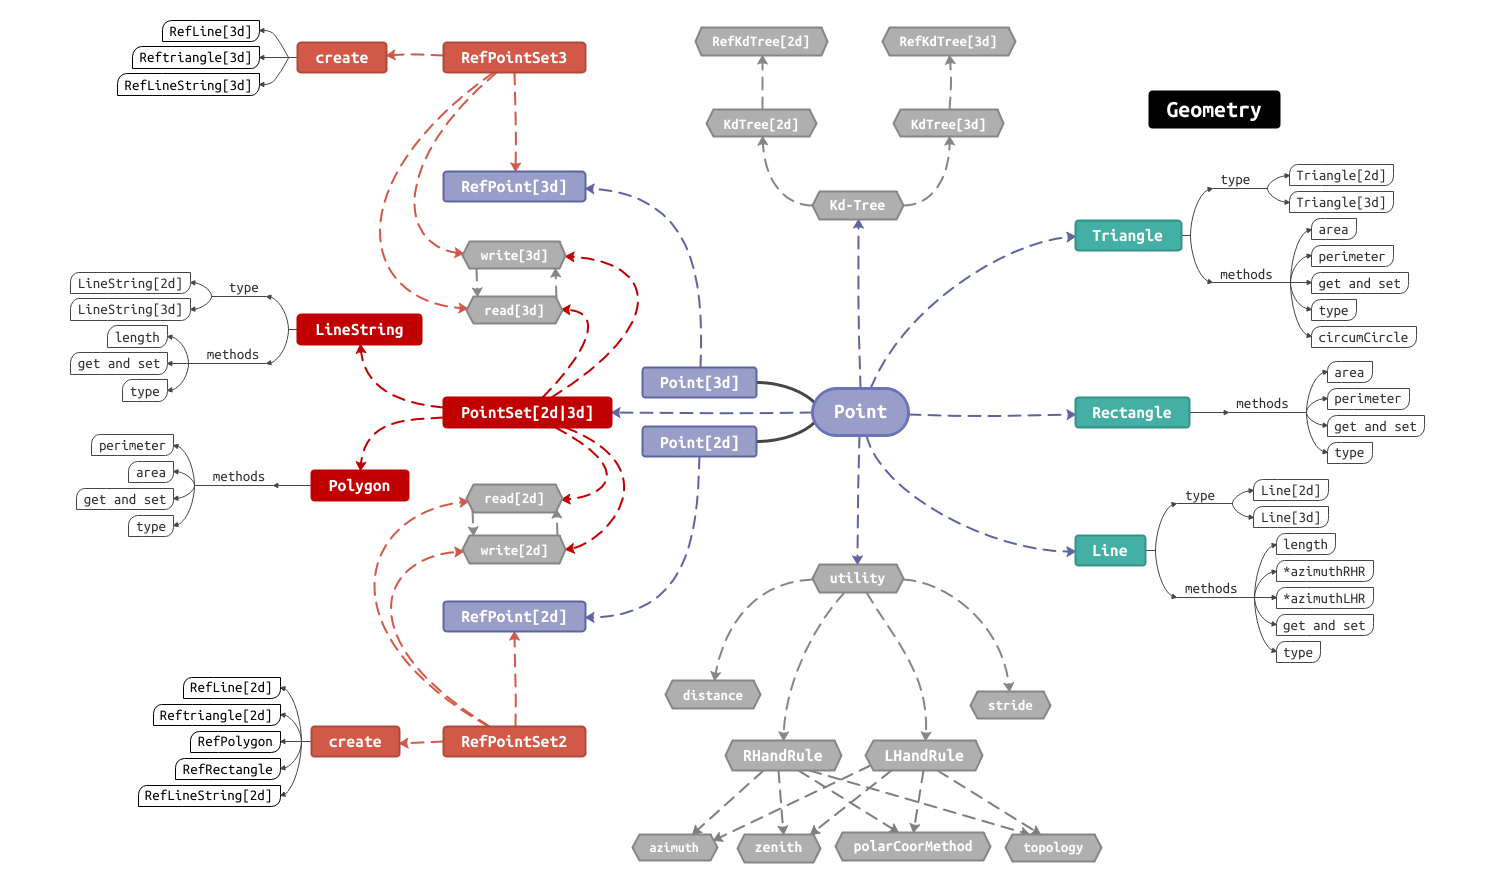
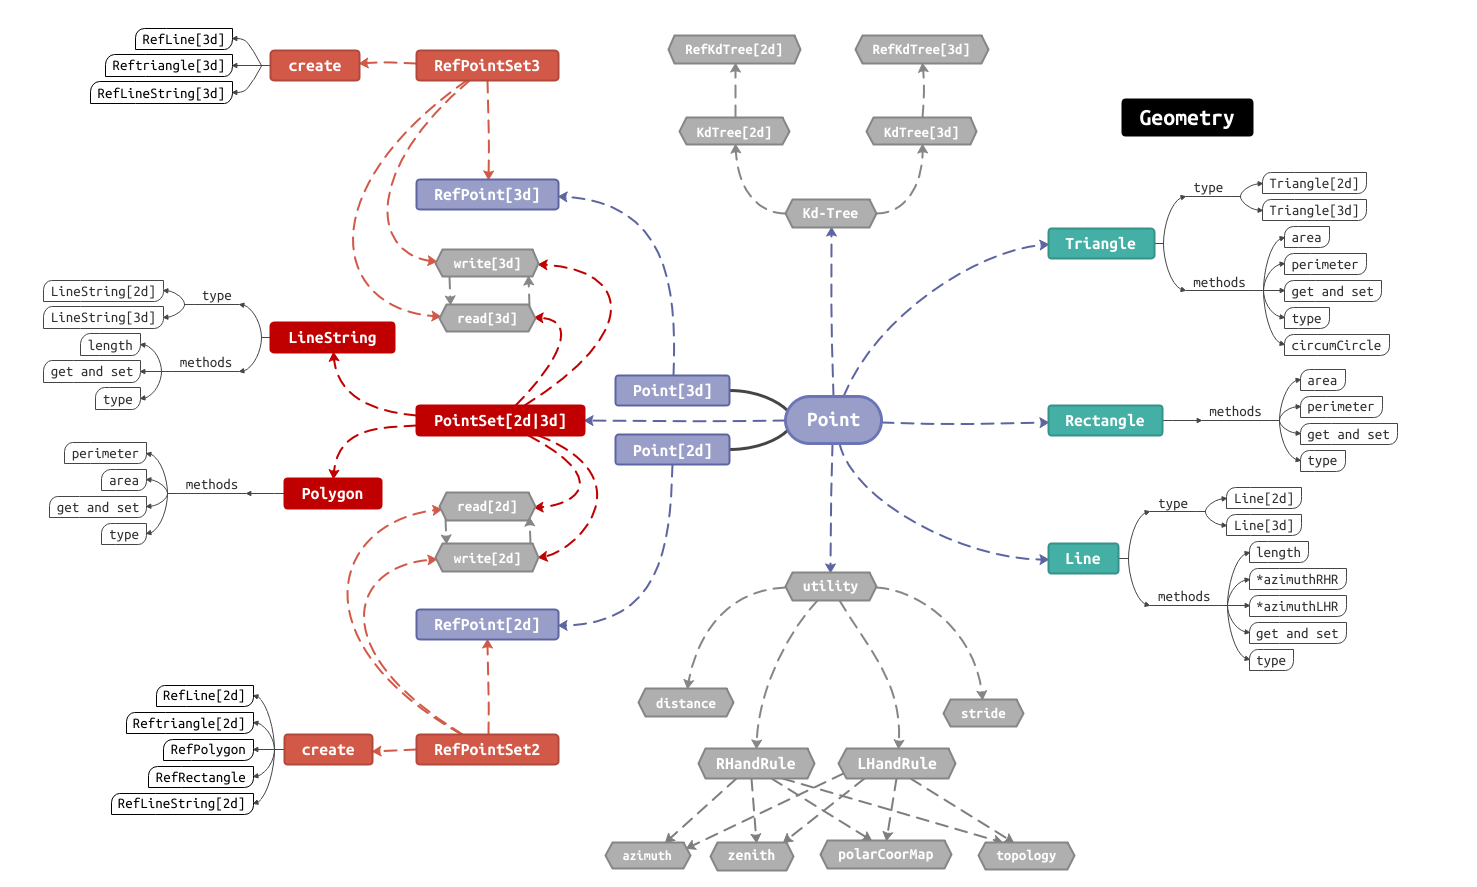
small change

diff --git a/include/utility.hpp b/include/utility.hpp
@@ -431,7 +431,7 @@ namespace ns_geo
          * @return Point2<_Ty> 
          */
         template <typename _Ty>
-        Point2<_Ty> polarCoorMethod(const Point2<_Ty> &center, float distance, float azimuth)
+        Point2<_Ty> polarCoorMap(const Point2<_Ty> &center, float distance, float azimuth)
         {
             Point2<_Ty> pos;
             pos.x() = center.x() + distance * std::sin(azimuth);
@@ -450,7 +450,7 @@ namespace ns_geo
          * @return Point3<_Ty> 
          */
         template <typename _Ty>
-        Point3<_Ty> polarCoorMethod(const Point3<_Ty> &center, float distance, float azimuth, float zenith)
+        Point3<_Ty> polarCoorMap(const Point3<_Ty> &center, float distance, float azimuth, float zenith)
         {
             Point3<_Ty> pos;
             float prjDis = distance * std::sin(zenith);
@@ -554,7 +554,7 @@ namespace ns_geo
          * @return Point2<_Ty> 
          */
         template <typename _Ty>
-        Point2<_Ty> polarCoorMethod(const Point2<_Ty> &center, float distance, float azimuth)
+        Point2<_Ty> polarCoorMap(const Point2<_Ty> &center, float distance, float azimuth)
         {
             Point2<_Ty> pos;
             pos.x() = center.x() + distance * std::cos(azimuth);
@@ -573,7 +573,7 @@ namespace ns_geo
          * @return Point3<_Ty> 
          */
         template <typename _Ty>
-        Point3<_Ty> polarCoorMethod(const Point3<_Ty> &center, float distance, float azimuth, float zenith)
+        Point3<_Ty> polarCoorMap(const Point3<_Ty> &center, float distance, float azimuth, float zenith)
         {
             Point3<_Ty> pos;
             float prjDis = distance * std::sin(zenith);

diff --git a/main.cpp b/main.cpp
@@ -18,7 +18,7 @@ void foo_polarCoor()
 {
     for (float rad = 0.0; rad < 10 * M_PI; rad += 0.5)
     {
-        auto pos = RHandRule::polarCoorMethod(Point2f(), rad * rad * rad / 100.0, rad);
+        auto pos = RHandRule::polarCoorMap(Point2f(), rad * rad * rad / 100.0, rad);
         std::cout << pos.x() << ',' << pos.y() << std::endl;
     }
     return;
